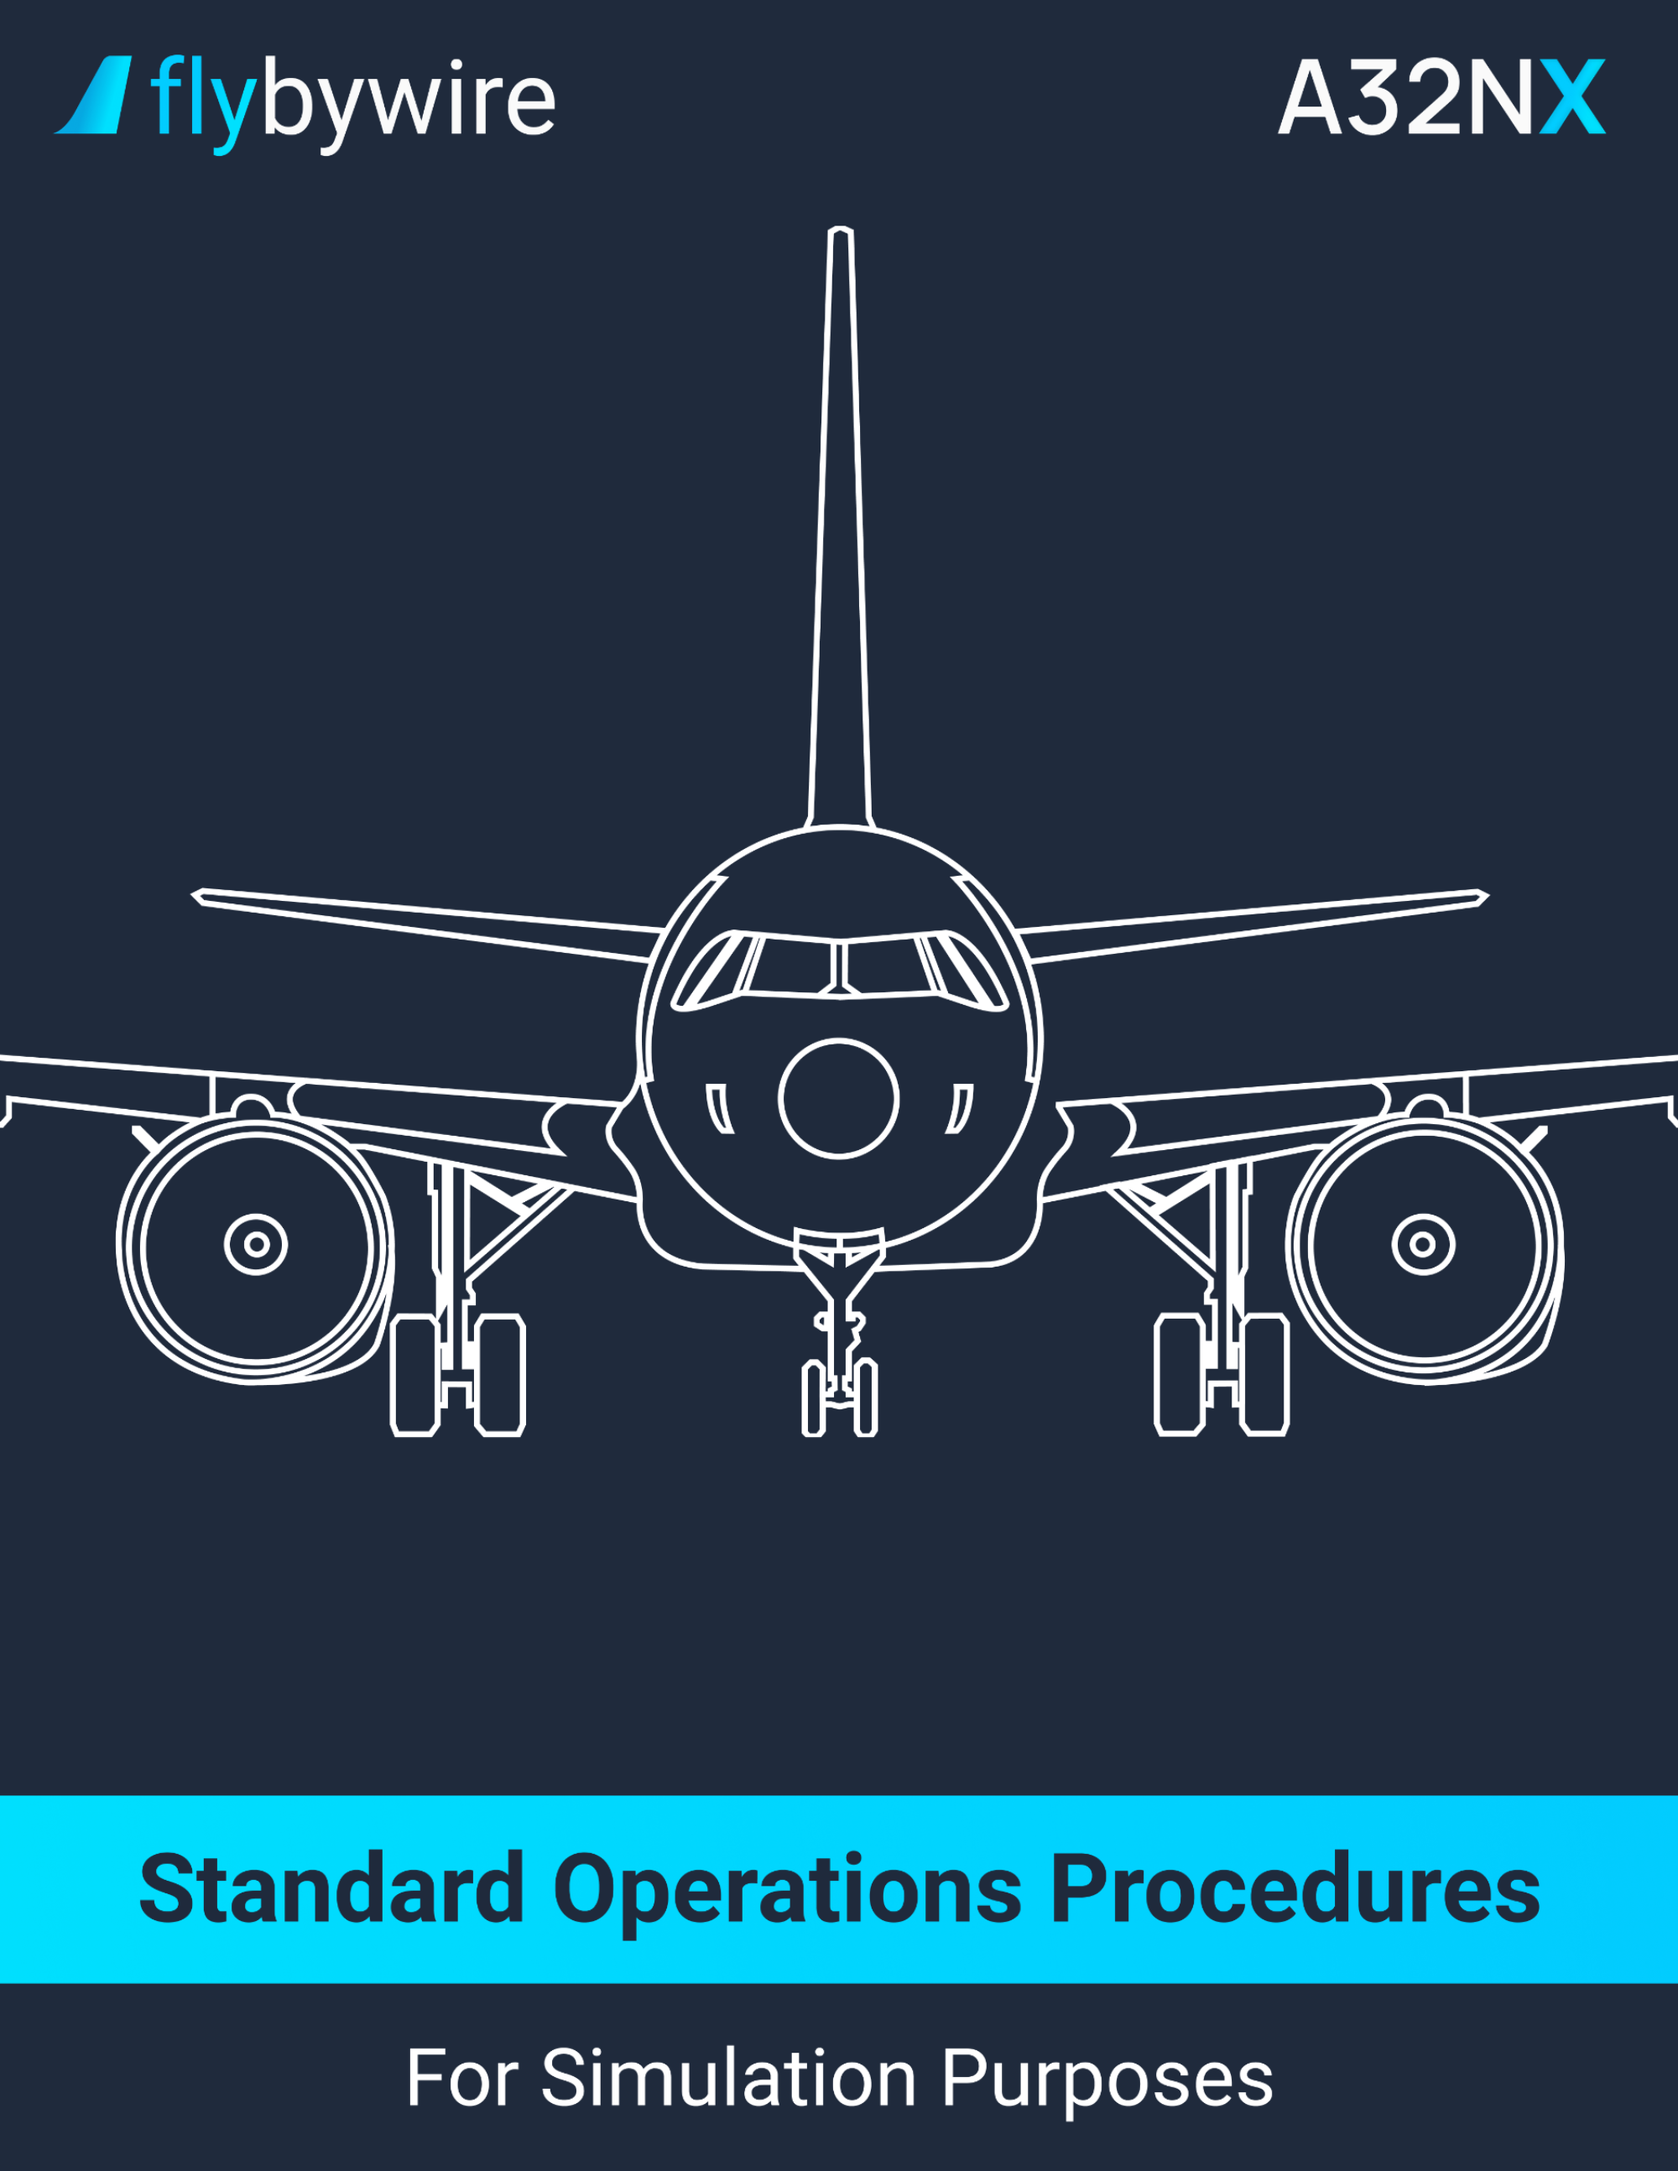
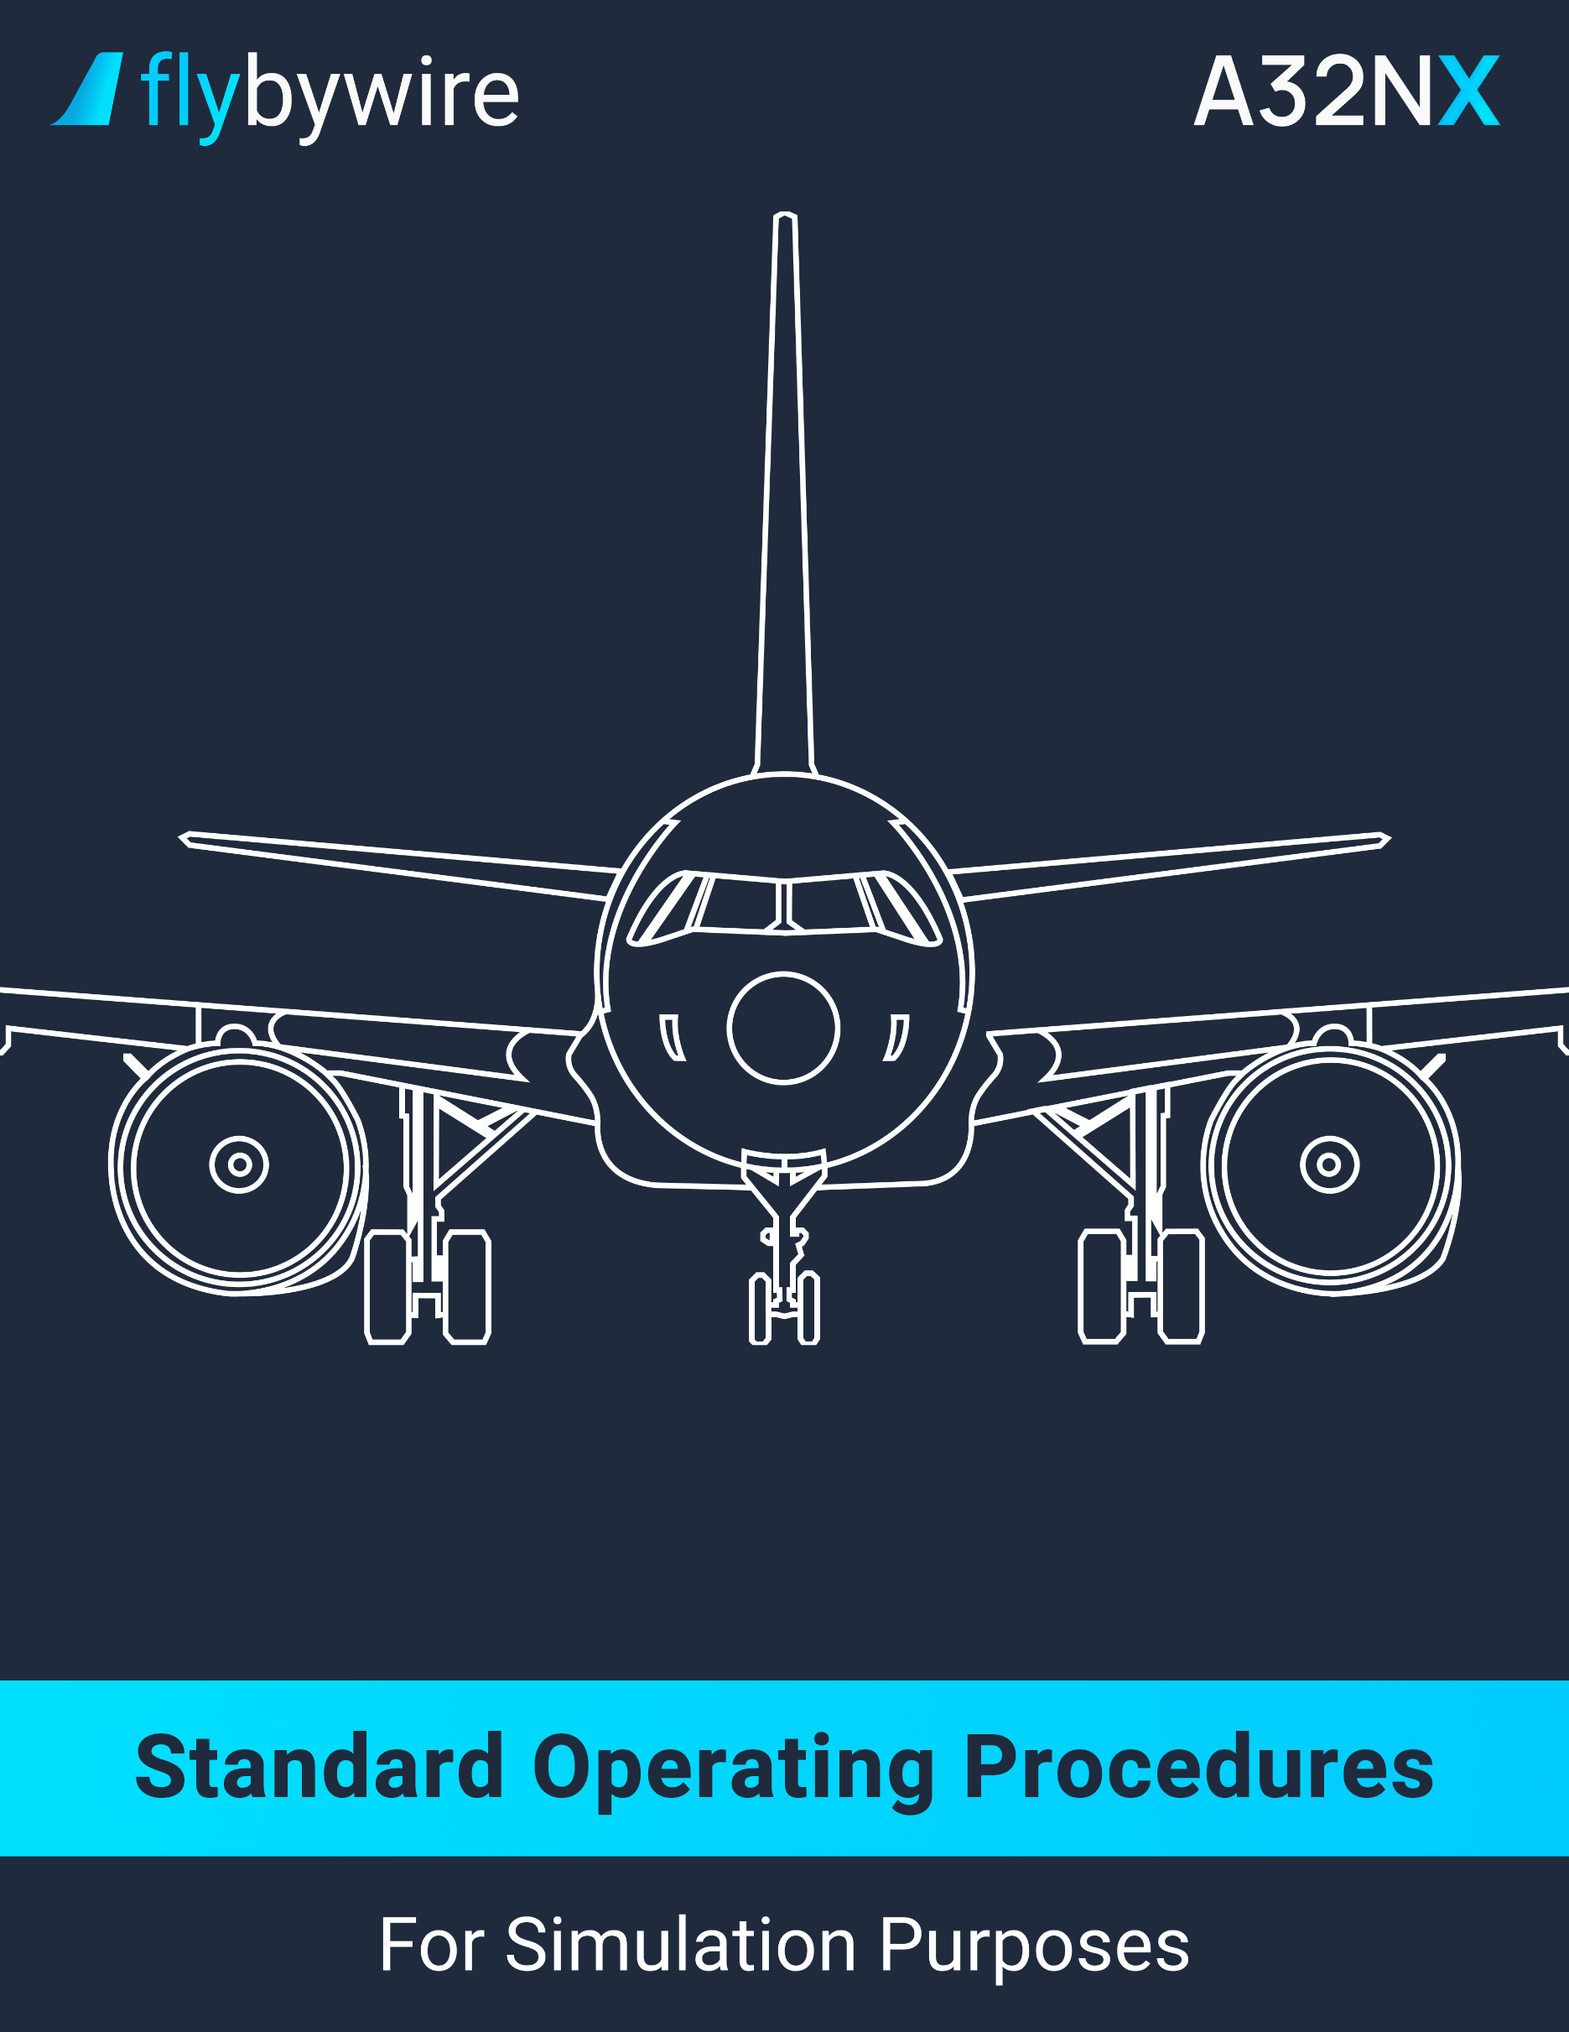
refactor: change SOP command image

diff --git a/src/commands/a32nx/sop.ts b/src/commands/a32nx/sop.ts
@@ -2,7 +2,7 @@ import { CommandDefinition } from '../../lib/command';
 import { makeEmbed, makeLines } from '../../lib/embed';
 import { CommandCategory } from '../../constants';
 
-const SOP_IMAGE_URL = 'https://cdn.discordapp.com/attachments/864493190471352344/920758283533422632/SOP.png';
+const SOP_IMAGE_URL = 'https://cdn.discordapp.com/attachments/791494566058000434/1003434989918097438/SOP.png';
 
 export const sop: CommandDefinition = {
     name: 'sop',

diff --git a/.github/CHANGELOG.md b/.github/CHANGELOG.md
@@ -2,6 +2,7 @@
 
 Update <small>_ July 2022</small>
 
+- refactor: change SOP command image (01/08/2022)
 - ci: build setup and lint helm for pr (31/07/2022)
 - fix: ping fixed for count command (31/07/2022)
 - chore: bot service to docker-compose (31/07/2022)
